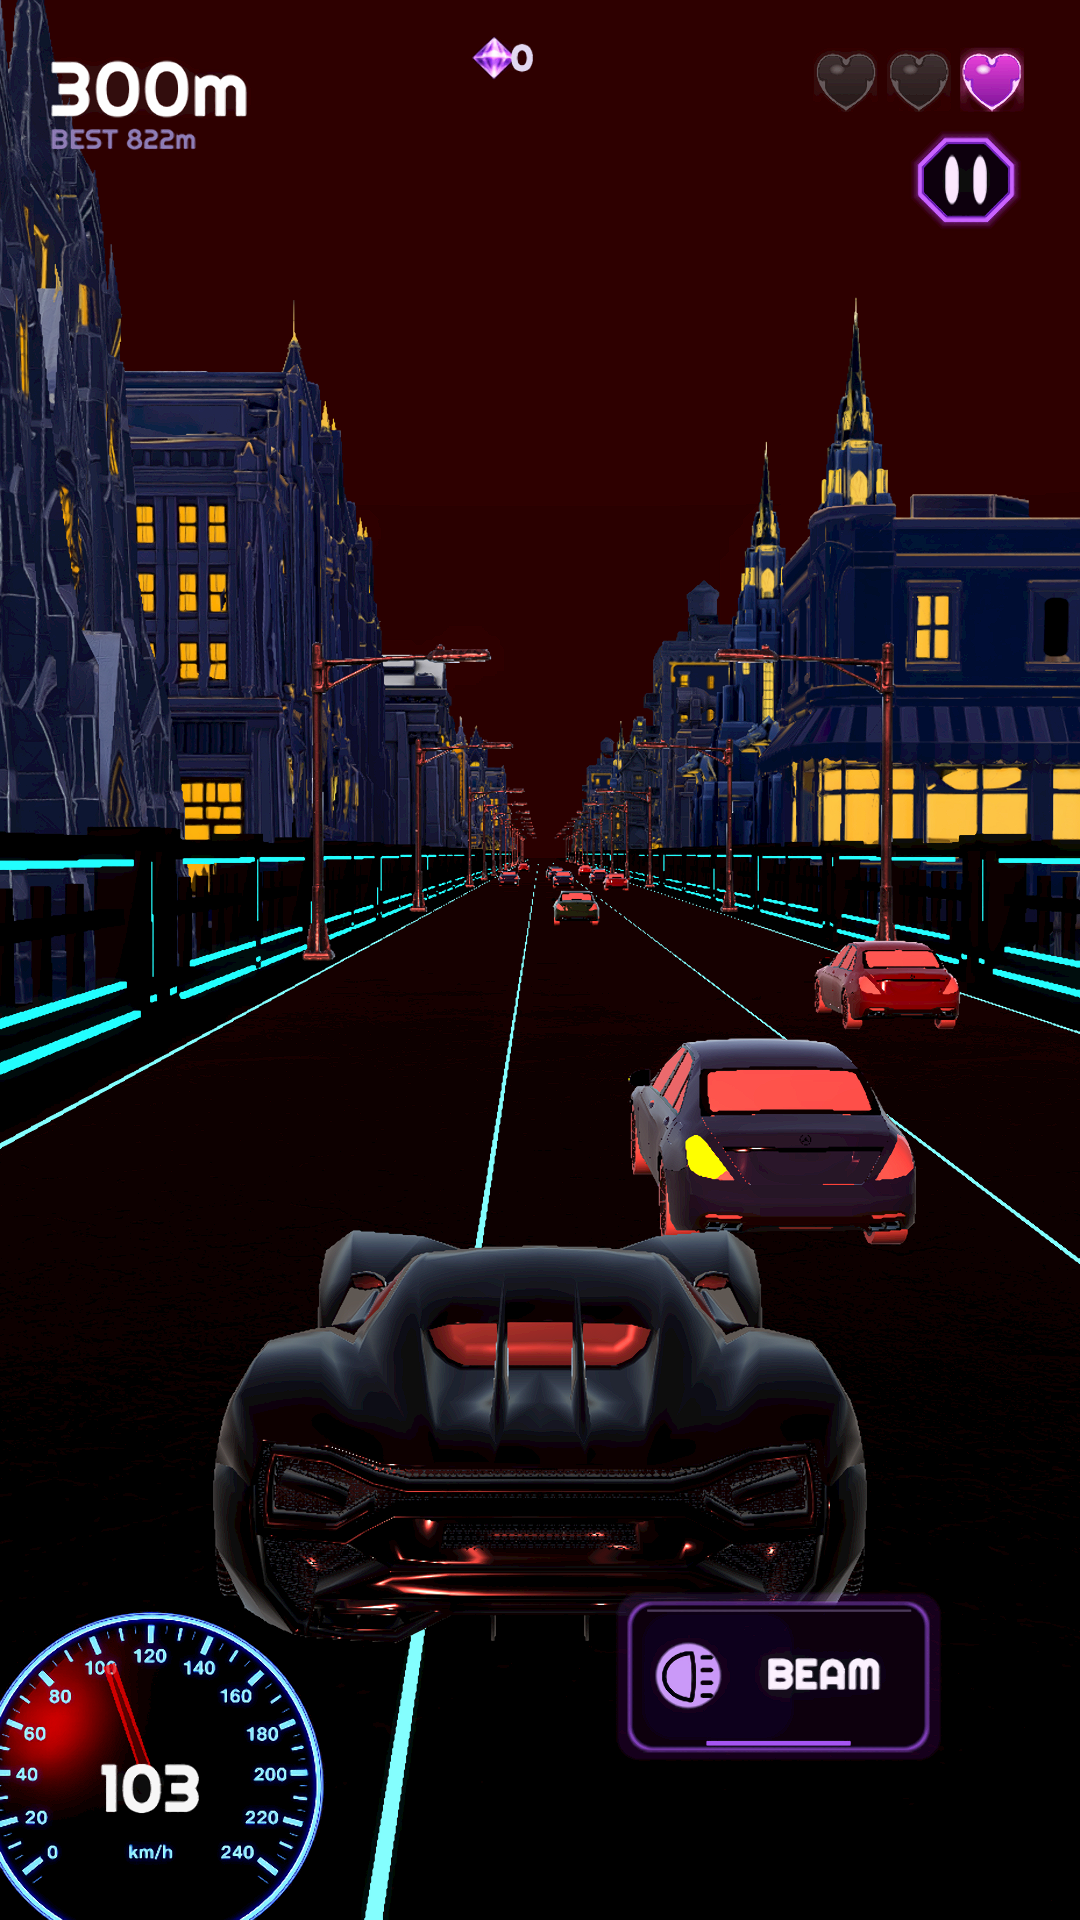
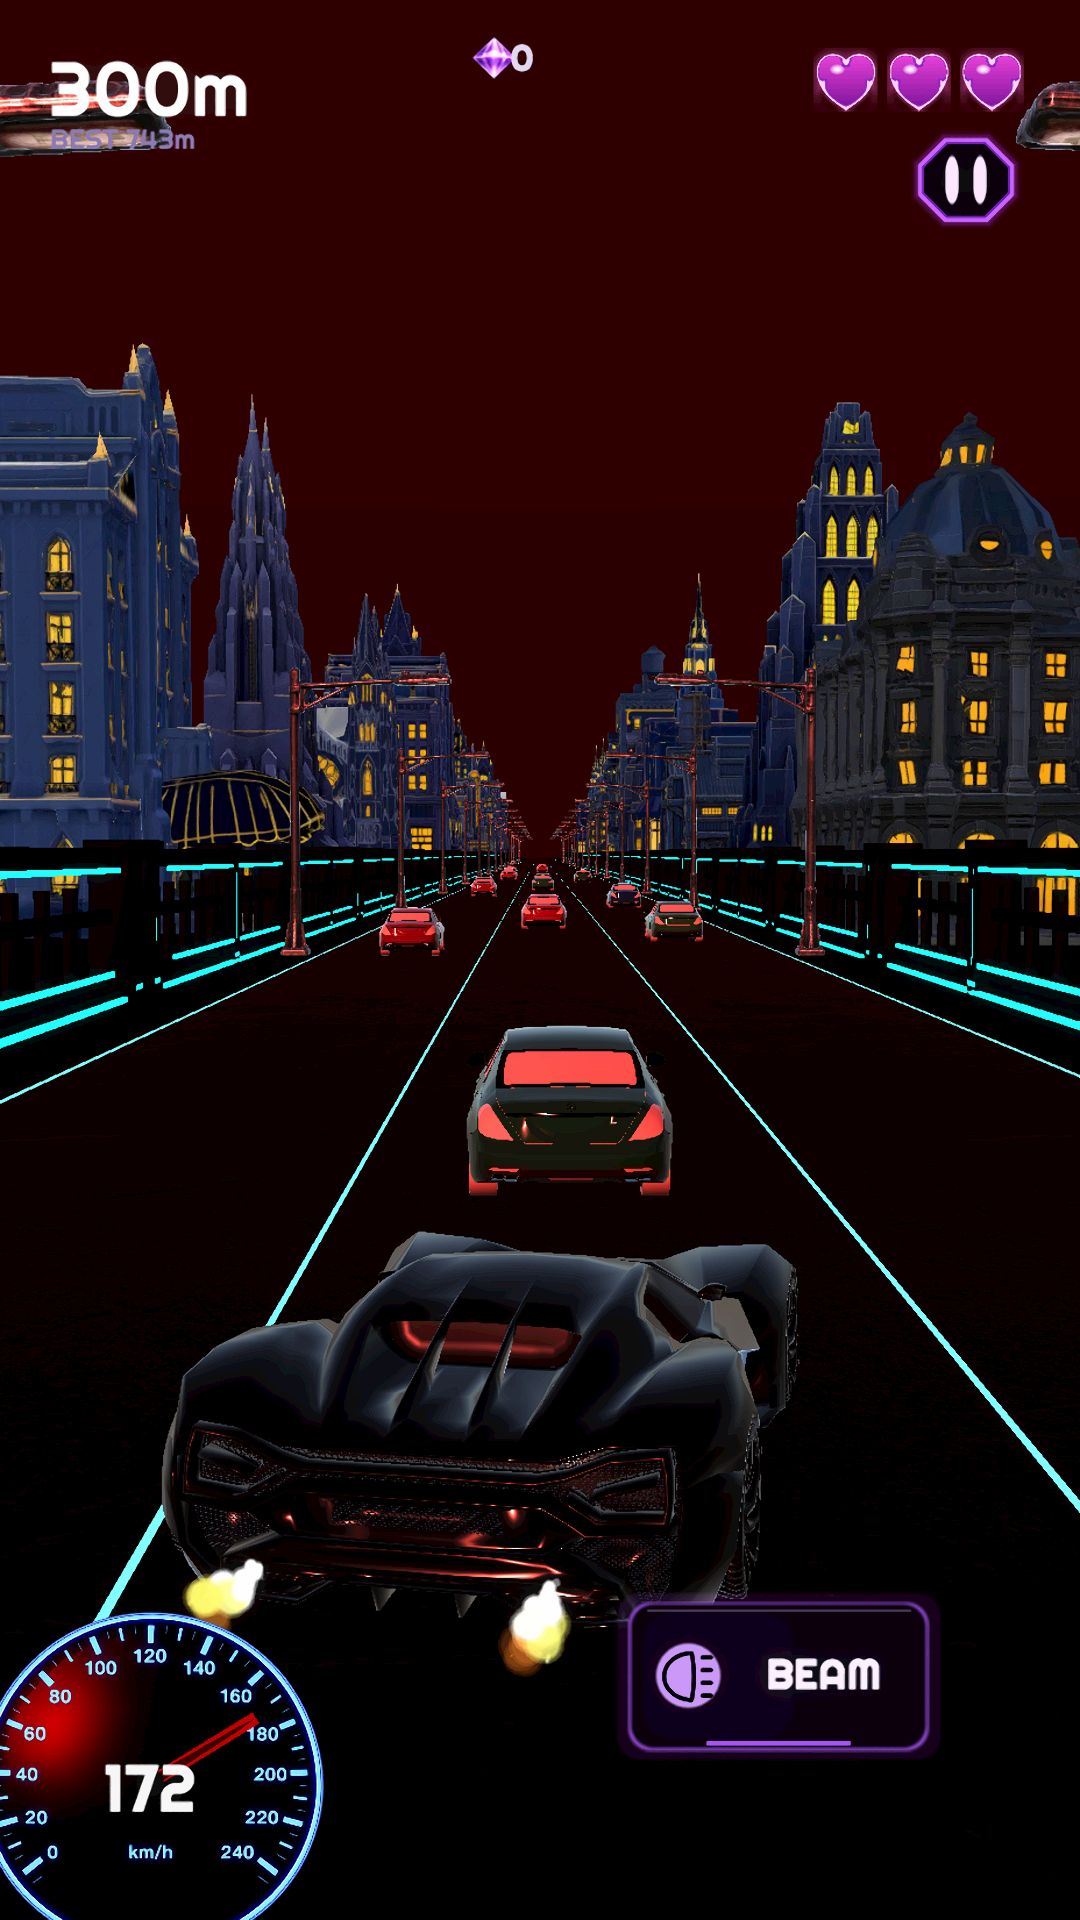
Stage 7: long run with a lane-avoiding driver reaches the speed stage and the wrecking balls

diff --git a/Assets/Tests/PlayMode/SmokeTests.cs b/Assets/Tests/PlayMode/SmokeTests.cs
@@ -297,22 +297,57 @@ public class SmokeTests
 		int frames = 0;
 		// the editor may run well under 60 fps and the gameplay dt is capped at 1/30 s, so the budget is
 		// in distance (1.5 km covers every distance-driven system) with a generous time limit
+		// A simple driver: steer toward the lane whose nearest car ahead is farthest (traffic sits in
+		// `pickups`, ahead = smaller z than the player at z 5) using the same touch pointer sets a finger
+		// would fill; boost is held all the way.
+		var lanes = (float[])Field(game, "lanes");
+		var leftSet = (System.Collections.Generic.HashSet<int>)Field(game, "touchSteerLeftPointers");
+		var rightSet = (System.Collections.Generic.HashSet<int>)Field(game, "touchSteerRightPointers");
+		var pickupsList = (System.Collections.IList)Field(game, "pickups");
+		Type pickupType = GameType.GetNestedType("Pickup", Any);
+		var transformField = pickupType.GetField("Transform", Any);
+		SetField(game, "touchBoostHeld", true);
 		while (Time.realtimeSinceStartup - start < 240f && maxDistance < 1500f && !(bool)Field(game, "showingGameOver"))
 		{
 			yield return null;
 			frames++;
+			{
+				float px = (float)Field(game, "playerX");
+				float best = -1f; int bestLane = 0; float current = 0f;
+				for (int lane = 0; lane < lanes.Length; lane++)
+				{
+					float gap = 400f;
+					foreach (object car in pickupsList)
+					{
+						var t = (Transform)transformField.GetValue(car);
+						if (t == null || !t.gameObject.activeInHierarchy) continue;
+						Vector3 cp = t.position;
+						if (Mathf.Abs(cp.x - lanes[lane]) > 1.6f) continue;
+						float ahead = 5f - cp.z;   // metres in front of the car
+						if (ahead > -6f && ahead < gap) gap = ahead;
+					}
+					if (Mathf.Abs(px - lanes[lane]) < 1.2f) current = gap;
+					if (gap > best) { best = gap; bestLane = lane; }
+				}
+				float targetX = current > 45f ? px : lanes[bestLane];
+				leftSet.Clear(); rightSet.Clear();
+				if (targetX < px - 0.3f) leftSet.Add(1); else if (targetX > px + 0.3f) rightSet.Add(2);
+			}
 			float distance = (float)Field(game, "distance");
 			maxDistance = Mathf.Max(maxDistance, distance);
 			maxSpeed = Mathf.Max(maxSpeed, (float)Field(game, "speed"));
 			minLives = Mathf.Min(minLives, (int)Field(game, "lifeHalfUnits"));
 			if (distance > 300f * (shots + 1) && shots < 6) { shots++; yield return Shot("20-run-" + Mathf.RoundToInt(distance) + "m"); }
 		}
+		leftSet.Clear(); rightSet.Clear(); SetField(game, "touchBoostHeld", false);
 		float elapsed = Time.realtimeSinceStartup - start;
 		Debug.Log("[SmokeTests] long run: distance " + maxDistance + " m in " + elapsed.ToString("0") + " s at " + (frames / elapsed).ToString("0") + " fps, top speed " + maxSpeed + " m/s, lives left (half units) " + minLives + ", game over " + (bool)Field(game, "showingGameOver"));
 		// Without steering the car usually wrecks on traffic before 1 km (three hearts): both outcomes are
 		// valid ends; the systems whose spawn window was passed must have fired.
 		bool over = (bool)Field(game, "showingGameOver");
 		Assert.IsTrue(maxDistance >= 1000f || over, "reached 1 km or wrecked");
+		int stage = (int)drivingType.GetField("s_stage", Any).GetValue(null);
+		Debug.Log("[SmokeTests] speed stage reached " + stage);
 		Assert.Greater(maxDistance, 300f, "a real run");
 		Assert.Greater(maxSpeed, 28f, "cruise speed");
 		if (over) Assert.AreEqual(0, minLives, "game over comes from losing every half heart");
